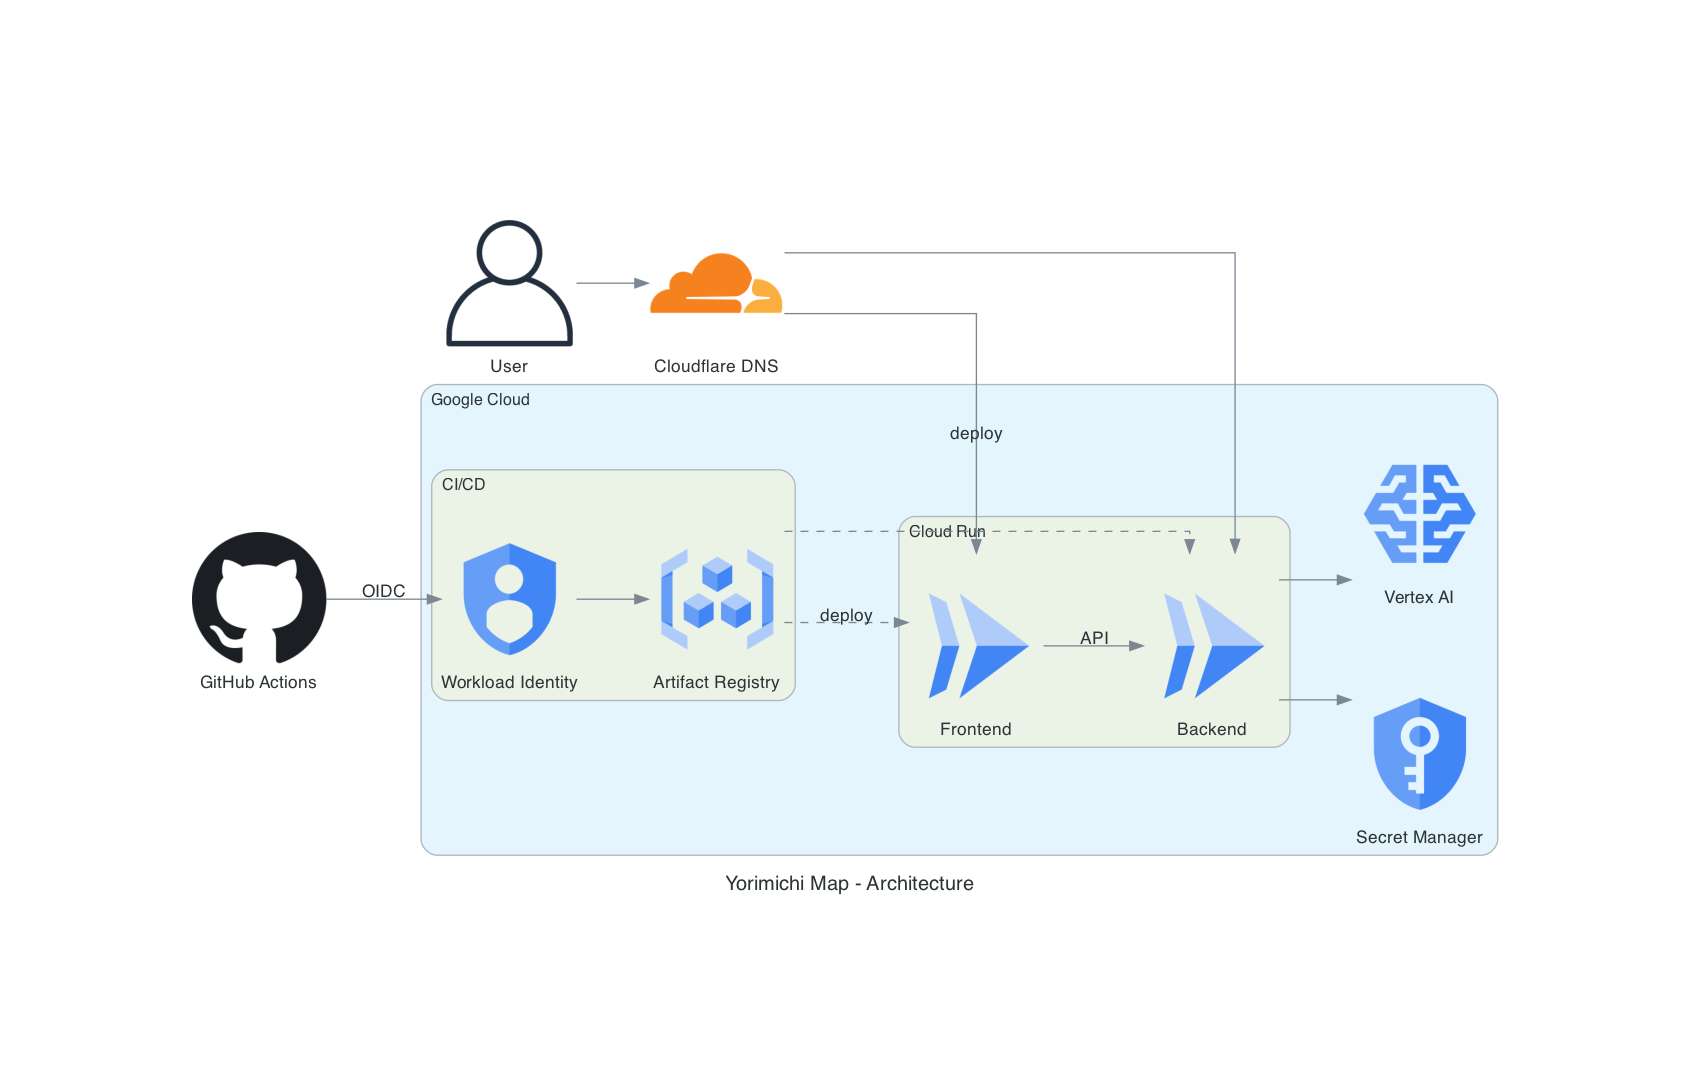
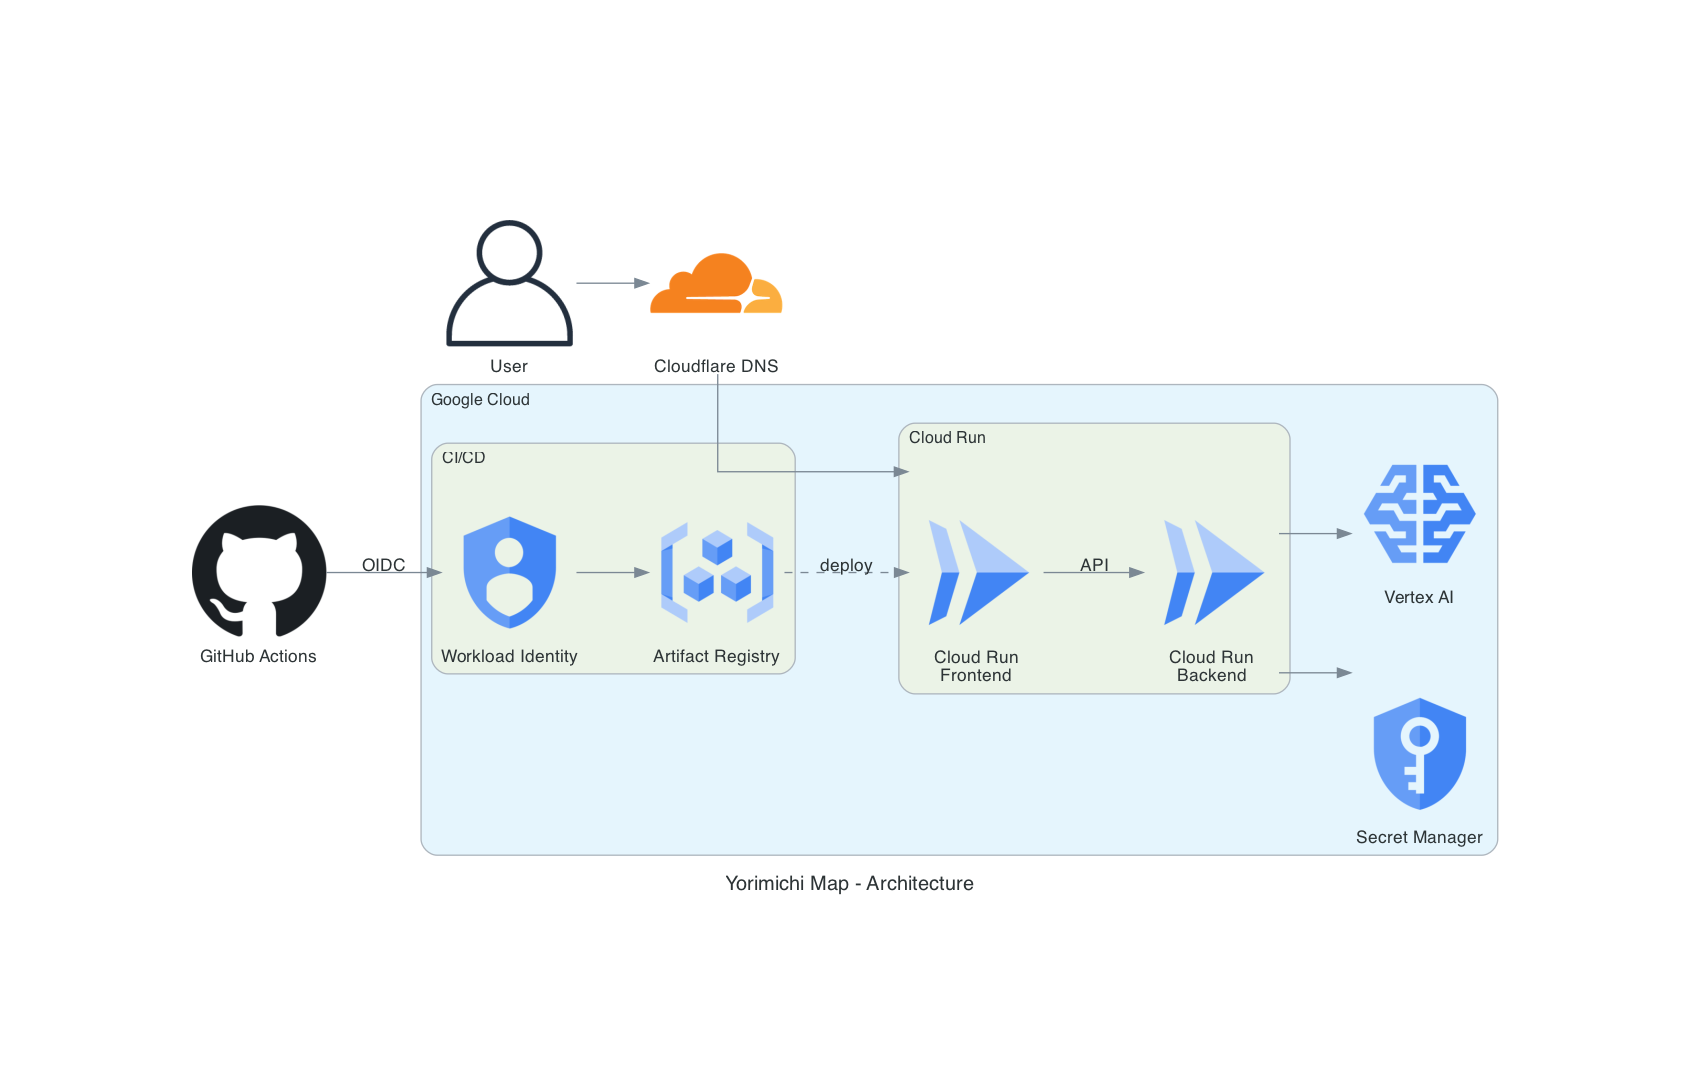
:art: Simplify architecture diagram deploy arrow to frontend only

diff --git a/terraform/generate-diagram.py b/terraform/generate-diagram.py
@@ -24,15 +24,14 @@ with Diagram(
             ar = ContainerRegistry("Artifact Registry")
 
         with Cluster("Cloud Run"):
-            frontend = Run("Frontend")
-            backend = Run("Backend")
+            frontend = Run("Cloud Run\nFrontend")
+            backend = Run("Cloud Run\nBackend")
 
         secrets = KMS("Secret Manager")
         vertex = AIPlatform("Vertex AI")
 
     # User flow
     user >> cloudflare >> frontend
-    cloudflare >> backend
     frontend >> Edge(label="API") >> backend
 
     # Backend services
@@ -42,4 +41,3 @@ with Diagram(
     # CI/CD flow
     github >> Edge(label="OIDC") >> wif >> ar
     ar >> Edge(style="dashed", label="deploy") >> frontend
-    ar >> Edge(style="dashed", label="deploy") >> backend
